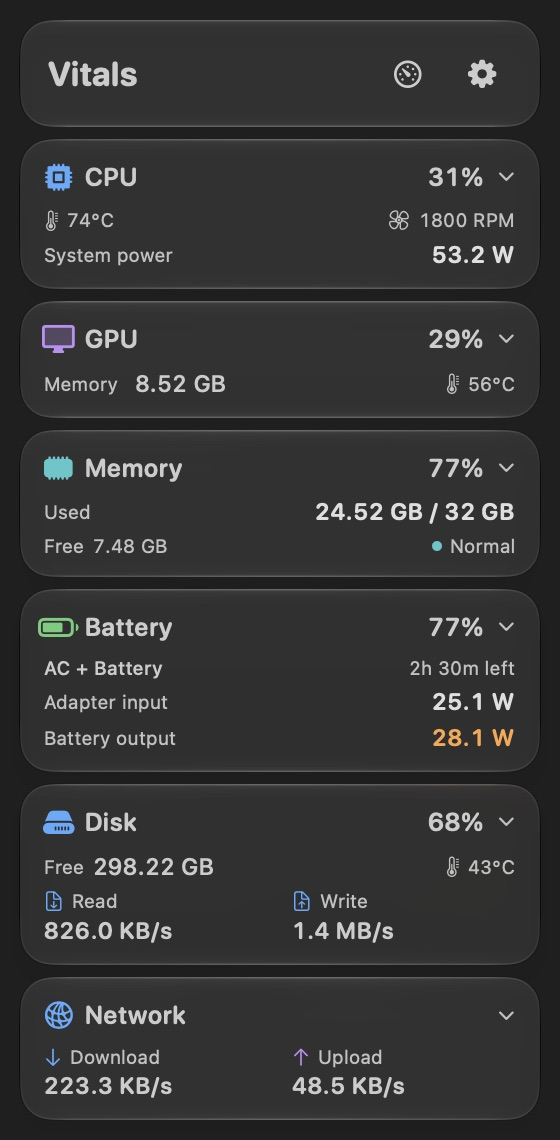
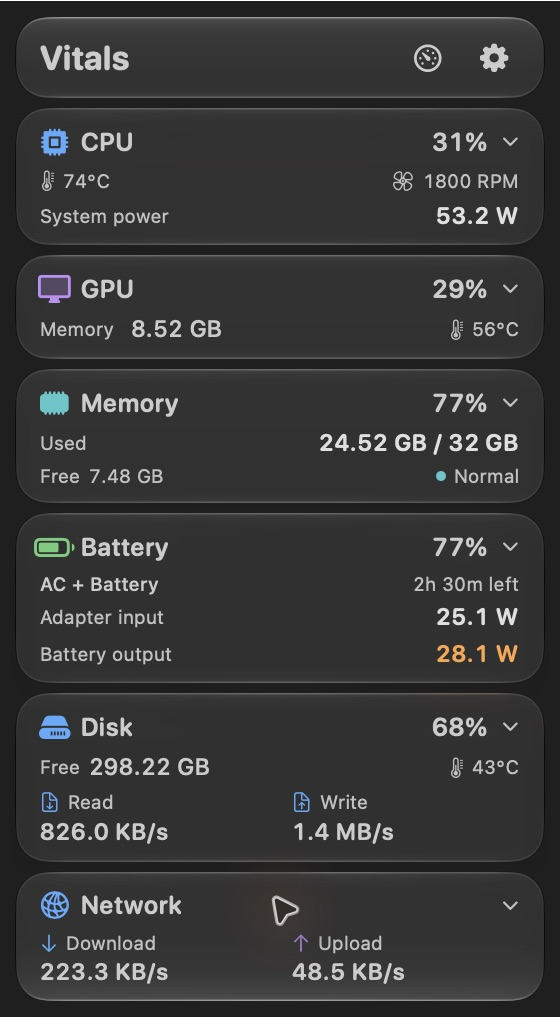
Fit all expanded core cards on one screen

diff --git a/Vitals/Views/Popover/PopoverView.swift b/Vitals/Views/Popover/PopoverView.swift
@@ -43,7 +43,7 @@ struct PopoverView: View {
     }
 
     private var dashboard: some View {
-        VStack(spacing: 6) {
+        VStack(spacing: 5) {
             GlassMorphicCard {
                 HStack {
                     Text("Vitals")
@@ -55,7 +55,7 @@ struct PopoverView: View {
                     } label: {
                         Image(systemName: "gauge.with.dots.needle.33percent")
                             .scaledFont(13, weight: .medium)
-                            .frame(width: 28 * appState.textScale, height: 28 * appState.textScale)
+                            .frame(width: 24 * appState.textScale, height: 24 * appState.textScale)
                     }
                     .buttonStyle(.plain)
                     .accessibilityLabel("Open Activity Monitor")
@@ -64,13 +64,14 @@ struct PopoverView: View {
                     SettingsLink {
                         Image(systemName: "gearshape.fill")
                             .scaledFont(13, weight: .medium)
-                            .frame(width: 28 * appState.textScale, height: 28 * appState.textScale)
+                            .frame(width: 24 * appState.textScale, height: 24 * appState.textScale)
                     }
                     .buttonStyle(.plain)
                     .accessibilityLabel("Open Settings")
                     .help("Open Settings")
                 }
             }
+            .environment(\.metricCardPresentation, .compact)
             ForEach(visibleSections) { section in
                 CompactSectionCard(
                     section: section,
@@ -84,7 +85,7 @@ struct PopoverView: View {
                 )
             }
         }
-        .padding(10)
+        .padding(8)
         .frame(width: min(280, maximumSize.width))
         .fixedSize()
         .onGeometryChange(for: CGSize.self) { geometry in

diff --git a/Shared/GlassMorphicCard.swift b/Shared/GlassMorphicCard.swift
@@ -24,6 +24,14 @@ private struct TextColorIsDarkKey: EnvironmentKey {
 
 enum MetricCardPresentation {
     case standard, compact, details
+
+    /// Inline details share their parent card, so they need less separation
+    /// than a standalone card while keeping the same text and chart sizes.
+    func spacing(_ points: CGFloat, textScale: Double) -> CGFloat {
+        // Enlarged text uses the available height for glyphs rather than gaps.
+        let density = max(0.15, 1.5 - textScale)
+        return (self == .details ? max(1, points * density) : points) * textScale
+    }
 }
 
 private struct MetricCardPresentationKey: EnvironmentKey {
@@ -101,6 +109,7 @@ struct GlassMorphicCard<Content: View>: View {
     @Environment(\.glassVariantEnv) private var glassVariant
     @Environment(\.colorScheme) private var colorScheme
     @Environment(\.metricCardPresentation) private var presentation
+    @Environment(\.textScale) private var textScale
     @ViewBuilder let content: () -> Content
 
     private var overlayColor: Color {
@@ -118,7 +127,7 @@ struct GlassMorphicCard<Content: View>: View {
     private var card: some View {
         content()
             .padding(.horizontal, presentation == .compact ? 12 : 14)
-            .padding(.vertical, presentation == .compact ? 10 : 12)
+            .padding(.vertical, presentation == .compact ? max(6, 8 - max(0, textScale - 1) * 4) : 12)
             .background(
                 RoundedRectangle(cornerRadius: 16, style: .continuous)
                     .fill(overlayColor.opacity(glassOpacity))

diff --git a/Vitals/Views/Popover/CPUCardView.swift b/Vitals/Views/Popover/CPUCardView.swift
@@ -3,6 +3,7 @@ import SwiftUI
 struct CPUCardView: View {
     @Environment(\.textScale) private var textScale
     @Environment(\.colorScheme) private var colorScheme
+    @Environment(\.metricCardPresentation) private var presentation
     let cpu: CPUMetrics
     let thermal: ThermalMetrics
     let history: MetricHistory
@@ -14,7 +15,7 @@ struct CPUCardView: View {
             color: MetricAccentColor.blue(for: colorScheme), history: history, showsHistory: cpu.totalCores > 0
         ) {
             if cpu.totalCores > 0 {
-                VStack(spacing: 8 * textScale) {
+                VStack(spacing: presentation.spacing(8, textScale: textScale)) {
                     HStack(spacing: 12) {
                         MetricValueRow(title: "User", value: percentage(cpu.userUsage)).frame(maxWidth: .infinity)
                         MetricValueRow(title: "System", value: percentage(cpu.systemUsage)).frame(maxWidth: .infinity)
@@ -28,7 +29,7 @@ struct CPUCardView: View {
 
                     if thermal.cpuTemperature != nil || thermal.fanRPM != nil || thermal.systemPower != nil {
                         Divider().opacity(0.4)
-                        VStack(spacing: 6 * textScale) {
+                        VStack(spacing: presentation.spacing(6, textScale: textScale)) {
                             if thermal.cpuTemperature != nil || thermal.fanRPM != nil {
                                 HStack(spacing: 12) {
                                     if let temperature = thermal.cpuTemperature {

diff --git a/Vitals/Views/Popover/MemoryCardView.swift b/Vitals/Views/Popover/MemoryCardView.swift
@@ -3,11 +3,12 @@ import SwiftUI
 struct MemoryCardView: View {
     @Environment(\.textScale) private var textScale
     @Environment(\.colorScheme) private var colorScheme
+    @Environment(\.metricCardPresentation) private var presentation
     let memory: MemoryMetrics
 
     var body: some View {
         GlassMorphicCard {
-            VStack(alignment: .leading, spacing: 8 * textScale) {
+            VStack(alignment: .leading, spacing: presentation.spacing(8, textScale: textScale)) {
                 MetricSectionHeader(
                     title: "Memory", icon: "memorychip.fill", color: MetricAccentColor.teal(for: colorScheme),
                     value: memory.total > 0 ? memory.usageRatio.formatted(.percent.precision(.fractionLength(0))) : "—"
@@ -22,7 +23,7 @@ struct MemoryCardView: View {
                     }
                     .scaledFont(9).adaptiveSecondary().accessibilityElement(children: .combine)
 
-                    VStack(spacing: 6 * textScale) {
+                    VStack(spacing: presentation.spacing(6, textScale: textScale)) {
                         MetricValueRow(title: "Active", value: Formatters.formatBytes(memory.active))
                         MetricValueRow(title: "Wired", value: Formatters.formatBytes(memory.wired))
                         MetricValueRow(title: "Compressed", value: Formatters.formatBytes(memory.compressed))

diff --git a/Vitals/Views/Popover/BatteryCardView.swift b/Vitals/Views/Popover/BatteryCardView.swift
@@ -3,6 +3,7 @@ import SwiftUI
 struct BatteryCardView: View {
     @Environment(\.textScale) private var textScale
     @Environment(\.colorScheme) private var colorScheme
+    @Environment(\.metricCardPresentation) private var presentation
 
     let battery: BatteryMetrics
     let temperature: Double?
@@ -18,7 +19,7 @@ struct BatteryCardView: View {
             history: history,
             showsHistory: false
         ) {
-            VStack(alignment: .leading, spacing: 8 * textScale) {
+            VStack(alignment: .leading, spacing: presentation.spacing(8, textScale: textScale)) {
                 UsageBarView(value: Double(battery.percentage) / 100, color: batteryColor, height: 4)
                     .accessibilityHidden(true)
 
@@ -38,7 +39,7 @@ struct BatteryCardView: View {
                 }
                 .lineLimit(1)
 
-                VStack(spacing: 6 * textScale) {
+                VStack(spacing: presentation.spacing(6, textScale: textScale)) {
                     powerRow("Adapter input", icon: "powerplug.fill", watts: battery.adapterPowerWatts, subtitle: adapterLimitLabel)
                         .help(adapterHelp)
                     powerRow(batteryPowerLabel, icon: batteryPowerIcon, watts: battery.batteryPowerWatts.map { abs($0) }, emphasized: battery.isDischarging && battery.isPluggedIn)

diff --git a/Vitals/Views/Popover/NetworkCardView.swift b/Vitals/Views/Popover/NetworkCardView.swift
@@ -3,6 +3,7 @@ import SwiftUI
 struct NetworkCardView: View {
     @Environment(\.textScale) private var textScale
     @Environment(\.colorScheme) private var colorScheme
+    @Environment(\.metricCardPresentation) private var presentation
 
     let network: NetworkMetrics
     let downloadHistory: MetricHistory
@@ -10,7 +11,7 @@ struct NetworkCardView: View {
 
     var body: some View {
         GlassMorphicCard {
-            VStack(alignment: .leading, spacing: 10 * textScale) {
+            VStack(alignment: .leading, spacing: presentation.spacing(10, textScale: textScale)) {
                 MetricSectionHeader(title: "Network", icon: "network", color: MetricAccentColor.blue(for: colorScheme))
 
                 HStack(alignment: .top, spacing: 12) {
@@ -44,7 +45,7 @@ struct NetworkCardView: View {
         _ title: LocalizedStringKey, icon: String, speed: UInt64,
         total: UInt64, history: MetricHistory, color: Color
     ) -> some View {
-        VStack(alignment: .leading, spacing: 6 * textScale) {
+        VStack(alignment: .leading, spacing: presentation.spacing(6, textScale: textScale)) {
             HStack(spacing: 4) {
                 Image(systemName: icon)
                     .scaledFont(9, weight: .semibold)

diff --git a/Vitals/Views/Popover/DiskCardView.swift b/Vitals/Views/Popover/DiskCardView.swift
@@ -3,13 +3,14 @@ import SwiftUI
 struct DiskCardView: View {
     @Environment(\.textScale) private var textScale
     @Environment(\.colorScheme) private var colorScheme
+    @Environment(\.metricCardPresentation) private var presentation
 
     let disk: DiskMetrics
     let temperature: Double?
 
     var body: some View {
         GlassMorphicCard {
-            VStack(alignment: .leading, spacing: 8 * textScale) {
+            VStack(alignment: .leading, spacing: presentation.spacing(8, textScale: textScale)) {
                 MetricSectionHeader(title: "Disk", icon: "internaldrive.fill", color: MetricAccentColor.blue(for: colorScheme), value: usedPercentage)
 
                 UsageBarView(value: disk.usageRatio, color: capacityColor, height: 4)
@@ -26,7 +27,7 @@ struct DiskCardView: View {
                 .adaptiveSecondary()
                 .accessibilityElement(children: .combine)
 
-                VStack(spacing: 6 * textScale) {
+                VStack(spacing: presentation.spacing(6, textScale: textScale)) {
                     transferRow("Read", icon: "arrow.down.doc", speed: disk.readSpeed)
                     transferRow("Write", icon: "arrow.up.doc", speed: disk.writeSpeed)
                 }

diff --git a/Vitals/Views/Popover/GPUCardView.swift b/Vitals/Views/Popover/GPUCardView.swift
@@ -3,11 +3,12 @@ import SwiftUI
 struct GPUCardView: View {
     @Environment(\.textScale) private var textScale
     @Environment(\.colorScheme) private var colorScheme
+    @Environment(\.metricCardPresentation) private var presentation
     let gpu: GPUMetrics
 
     var body: some View {
         GlassMorphicCard {
-            VStack(alignment: .leading, spacing: 8 * textScale) {
+            VStack(alignment: .leading, spacing: presentation.spacing(8, textScale: textScale)) {
                 MetricSectionHeader(
                     title: "GPU", icon: "display", color: MetricAccentColor.purple(for: colorScheme),
                     value: gpu.utilization.map { $0.formatted(.percent.precision(.fractionLength(0))) } ?? "—"

diff --git a/Vitals/Views/Popover/MetricCardView.swift b/Vitals/Views/Popover/MetricCardView.swift
@@ -3,6 +3,7 @@ import SwiftUI
 struct MetricCardView<Content: View>: View {
 
     @Environment(\.textScale) private var textScale
+    @Environment(\.metricCardPresentation) private var presentation
 
     let metricType: MetricType
     let icon: String
@@ -35,7 +36,7 @@ struct MetricCardView<Content: View>: View {
 
     var body: some View {
         GlassMorphicCard {
-            VStack(alignment: .leading, spacing: 8 * textScale) {
+            VStack(alignment: .leading, spacing: presentation.spacing(8, textScale: textScale)) {
                 // Title row
                 MetricSectionHeader(title: title, icon: icon, color: color, value: value)
 

diff --git a/Vitals/Views/Popover/CompactSectionCard.swift b/Vitals/Views/Popover/CompactSectionCard.swift
@@ -14,7 +14,7 @@ struct CompactSectionCard: View {
 
     var body: some View {
         GlassMorphicCard {
-            VStack(alignment: .leading, spacing: 6 * textScale) {
+            VStack(alignment: .leading, spacing: 4 * textScale) {
                 Button {
                     isExpanded.toggle()
                 } label: {

diff --git a/README.md b/README.md
@@ -4,12 +4,13 @@ A lightweight macOS menu bar app that monitors your system in real time with a b
 
 Built with SwiftUI and designed for **macOS 26 (Tahoe)**.
 
-**Fork version: 2.5.6** — Based on [filiphajduch420/Vitals](https://github.com/filiphajduch420/Vitals) v2.5. See [CHANGELOG.md](CHANGELOG.md) for the changes.
+**Fork version: 2.5.7** — Based on [filiphajduch420/Vitals](https://github.com/filiphajduch420/Vitals) v2.5. See [CHANGELOG.md](CHANGELOG.md) for the changes.
 
 ## Changes in this fork
 
 - **Compact single-column popover** — The panel stays 280 points wide. CPU, GPU, memory, battery, disk, and network summaries fit on one screen at the default text size.
 - **Click to expand** — Click a card header to show its graphs and detailed statistics. Adapter input and battery charging/output power remain visible in the compact overview.
+- **Fully expanded on one screen** — Tighter card padding and text-size-aware detail spacing keep all six core cards visible together on the tested 1512 × 982-point display, including at 130% text size. Text and graph sizes are preserved.
 - **Correct battery direction** — Signed battery power determines whether the battery is charging or supplying the Mac, including when a charger is connected. Battery data refreshes on macOS power notifications and when the panel opens.
 - **Clearer readings** — Neutral text for measurements, stronger light/dark accent colors, separate disk read/write speeds, and network graphs that scale to the current traffic.
 
@@ -19,11 +20,11 @@ Adapter input is the measured power entering the Mac. The negotiated adapter lim
 
 Screenshots capture the native macOS UI with sample readings. The dark example shows the battery supplying power while an adapter is attached.
 
-| Compact · Light | Compact · Dark | Expanded details |
+| Compact · Light | Compact · Dark | All six expanded |
 | --- | --- | --- |
-| <img src="media/popover-compact-light.jpg" alt="Compact single-column popover in light appearance" width="260"> | <img src="media/popover-compact-dark.jpg" alt="Compact dark popover with adapter input and battery output" width="260"> | <img src="media/popover-expanded.jpg" alt="Single-column popover with CPU and battery details expanded" width="260"> |
+| <img src="media/popover-compact-light.jpg" alt="Compact single-column popover in light appearance" width="260"> | <img src="media/popover-compact-dark.jpg" alt="Compact dark popover with adapter input and battery output" width="260"> | <img src="media/popover-expanded.jpg" alt="Single-column popover with all six core cards expanded without scrolling" width="260"> |
 
-The overview preserves your section order and text-size setting. Expanded cards show the full statistics; scrolling is available when the expanded content exceeds the screen height.
+The overview preserves your section order and text-size setting. Expanded cards show the full statistics. Scrolling remains available for smaller screens or when additional optional sections exceed the available height.
 
 > **Note:** Pre-built upstream releases are not signed with an Apple Developer certificate. macOS may ask you to use **System Settings > Privacy & Security > Open Anyway** on first launch. The source is available for review and local builds.
 

diff --git a/CHANGELOG.md b/CHANGELOG.md
@@ -2,6 +2,13 @@
 
 All notable changes to Vitals will be documented in this file.
 
+## [2.5.7] - 2026-10-05 (malusama fork)
+
+### Changed
+- Tighter card and toolbar padding, with detail spacing that compensates for larger text, let all six core cards fit fully expanded on the tested display.
+- Preserve the 280-point single column, all detailed readings, text sizes, and graph heights.
+- Refresh README screenshots, including the fully expanded six-card layout.
+
 ## [2.5.6] - 2026-10-05 (malusama fork)
 
 ### Added
